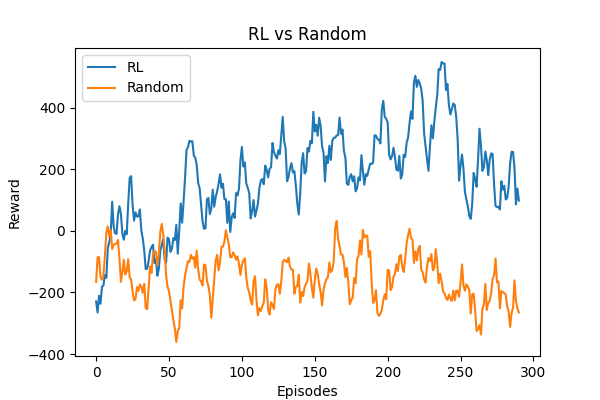
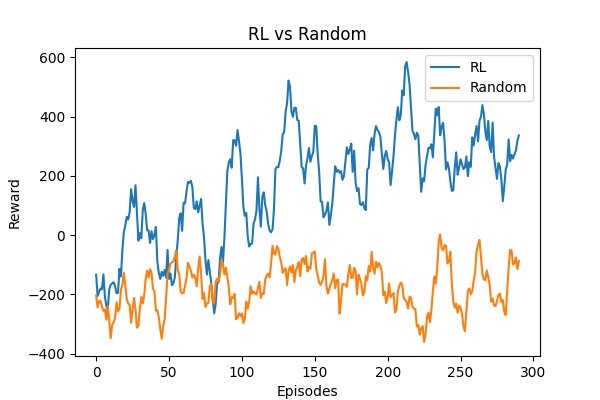
Experiment 1 completed with baseline comparison

diff --git a/train.py b/train.py
@@ -32,6 +32,7 @@ rl_rewards = []
 random_rewards = []
 epsilons = []
 avg_queues = []
+random_queues = []
 
 # ---------------- RL TRAINING ----------------
 
@@ -55,12 +56,13 @@ for ep in range(episodes):
         total_reward += reward
         total_queue += sum(env.queue)
 
+        if done:
+            break
+
     agent.decay_epsilon()
 
     rl_rewards.append(total_reward)
-
     avg_queues.append(total_queue / 50)
-
     epsilons.append(agent.epsilon)
 
 # ---------------- RANDOM BASELINE ----------------
@@ -70,6 +72,7 @@ for ep in range(episodes):
     state = env.reset()
 
     total_reward = 0
+    total_queue = 0
 
     for step in range(50):
 
@@ -80,18 +83,29 @@ for ep in range(episodes):
         state = next_state
 
         total_reward += reward
+        total_queue += sum(env.queue)
+
+        if done:
+            break
 
     random_rewards.append(total_reward)
+    random_queues.append(total_queue / 50)
 
 print("Training Complete!")
+print("RL Avg Reward:", np.mean(rl_rewards))
+print("Random Avg Reward:", np.mean(random_rewards))
+print("RL Avg Queue Length:", np.mean(avg_queues))
+print("Random Avg Queue Length:", np.mean(random_queues))
 
 # ---------------- SAVE RESULTS ----------------
 
 results = {
     "run_id": ["exp1"],
     "episodes": [episodes],
-    "avg_reward": [np.mean(rl_rewards)],
-    "avg_queue_length": [np.mean(avg_queues)],
+    "avg_reward_rl": [np.mean(rl_rewards)],
+    "avg_reward_random": [np.mean(random_rewards)],
+    "avg_queue_rl": [np.mean(avg_queues)],
+    "avg_queue_random": [np.mean(random_queues)],
     "epsilon_final": [agent.epsilon],
     "learning_rate": [agent.alpha],
     "discount_factor": [agent.gamma]
@@ -100,6 +114,7 @@ results = {
 df = pd.DataFrame(results)
 
 os.makedirs("results", exist_ok=True)
+os.makedirs("graphs", exist_ok=True)
 
 df.to_csv("results/results_1.csv", index=False)
 
@@ -108,61 +123,54 @@ print("Results CSV Saved!")
 # ---------------- SMOOTH FUNCTION ----------------
 
 def smooth(data, window=10):
-    return np.convolve(data, np.ones(window)/window, mode='valid')
+    if len(data) < window:
+        return data
+    return np.convolve(data, np.ones(window) / window, mode='valid')
 
 rl_s = smooth(rl_rewards)
 rand_s = smooth(random_rewards)
 queue_s = smooth(avg_queues)
 
-# ---------------- GRAPH 1 ----------------
+# ---------------- GRAPH 1: REWARD CURVE ----------------
 
-plt.figure(figsize=(6,4))
-
+plt.figure(figsize=(6, 4))
 plt.plot(rl_s)
-
 plt.xlabel("Episodes")
 plt.ylabel("Reward")
 plt.title("Learning Curve")
-
 plt.savefig("graphs/reward_curve.png")
+plt.close()
 
-# ---------------- GRAPH 2 ----------------
+# ---------------- GRAPH 2: RL VS RANDOM ----------------
 
-plt.figure(figsize=(6,4))
-
+plt.figure(figsize=(6, 4))
 plt.plot(rl_s, label="RL")
 plt.plot(rand_s, label="Random")
-
 plt.xlabel("Episodes")
 plt.ylabel("Reward")
 plt.title("RL vs Random")
-
 plt.legend()
-
 plt.savefig("graphs/rl_vs_random.png")
+plt.close()
 
-# ---------------- GRAPH 3 ----------------
+# ---------------- GRAPH 3: EPSILON DECAY ----------------
 
-plt.figure(figsize=(6,4))
-
+plt.figure(figsize=(6, 4))
 plt.plot(epsilons)
-
 plt.xlabel("Episodes")
 plt.ylabel("Epsilon")
 plt.title("Epsilon Decay")
-
 plt.savefig("graphs/epsilon_decay.png")
+plt.close()
 
-# ---------------- GRAPH 4 ----------------
+# ---------------- GRAPH 4: QUEUE LENGTH ----------------
 
-plt.figure(figsize=(6,4))
-
+plt.figure(figsize=(6, 4))
 plt.plot(queue_s)
-
 plt.xlabel("Episodes")
 plt.ylabel("Queue Length")
 plt.title("Queue Reduction")
-
 plt.savefig("graphs/queue_length.png")
+plt.close()
 
 plt.show()

diff --git a/ev_env.py b/ev_env.py
@@ -15,7 +15,6 @@ class EVChargingEnv:
 
         reward = 0
 
-        # Allocate EV
         if self.slots[action] > 0:
             self.slots[action] -= 1
             reward += 20
@@ -23,10 +22,8 @@ class EVChargingEnv:
             self.queue[action] += 1
             reward -= 15
 
-        # Queue penalty
         reward -= sum(self.queue)
 
-        # Simulate charging completion
         for i in range(self.n_stations):
             if random.random() < 0.3:
                 if self.queue[i] > 0:
@@ -36,4 +33,8 @@ class EVChargingEnv:
 
         next_state = tuple(self.slots + self.queue)
 
-        return next_state, reward, False
+        done = False
+        if sum(self.queue) > 20:
+            done = True
+
+        return next_state, reward, done